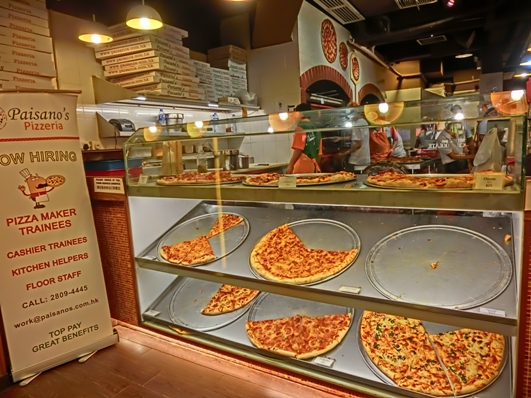
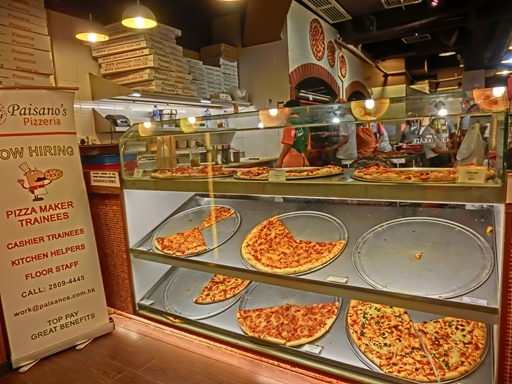
Additional performance modifications

diff --git a/views/js/main.js b/views/js/main.js
@@ -424,7 +424,7 @@ var resizePizzas = function(size) {
   // Returns the size difference to change a pizza element from one size to another. Called by changePizzaSlices(size).
   function determineDx (elem, size) {
     var oldwidth = elem.offsetWidth;
-    var windowwidth = document.querySelector("#randomPizzas").offsetWidth;
+    var windowwidth = document.getElementById("randomPizzas").offsetWidth;
     var oldsize = oldwidth / windowwidth;
 
     // TODO: change to 3 sizes? no more xl?
@@ -450,10 +450,13 @@ var resizePizzas = function(size) {
 
   // Iterates through pizza elements on the page and changes their widths
   function changePizzaSizes(size) {
-    for (var i = 0; i < document.querySelectorAll(".randomPizzaContainer").length; i++) {
-      var dx = determineDx(document.querySelectorAll(".randomPizzaContainer")[i], size);
-      var newwidth = (document.querySelectorAll(".randomPizzaContainer")[i].offsetWidth + dx) + 'px';
-      document.querySelectorAll(".randomPizzaContainer")[i].style.width = newwidth;
+   //var randompizza =  document.querySelectorAll(".randomPizzaContainer");
+   var randompizza = document.getElementsByClassName("randomPizzaContainer");
+   var dx = determineDx(randompizza[0], size);
+    var newwidth = (randompizza[0].offsetWidth + dx) + 'px';
+    
+    for (var i = 0; i < randompizza.length; i++) {
+      randompizza[i].style.width = newwidth;
     }
   }
 
@@ -502,9 +505,12 @@ function updatePositions() {
   frame++;
   window.performance.mark("mark_start_frame");
 
-  var items = document.querySelectorAll('.mover');
+  var items = document.getElementsByClassName("mover");
+  var modvalues = [1, 2, 3, 4, 5];
+  var modvalue = modvalues[Math.floor(Math.random() * modvalues.length)];
+  var phase = Math.sin((document.body.scrollTop / 1250) + modvalue);
+
   for (var i = 0; i < items.length; i++) {
-    var phase = Math.sin((document.body.scrollTop / 1250) + (i % 5));
     items[i].style.left = items[i].basicLeft + 100 * phase + 'px';
   }
 
@@ -525,10 +531,10 @@ window.addEventListener('scroll', updatePositions);
 document.addEventListener('DOMContentLoaded', function() {
   var cols = 8;
   var s = 256;
-  for (var i = 0; i < 200; i++) {
+  for (var i = 0; i < 22; i++) {
     var elem = document.createElement('img');
     elem.className = 'mover';
-    elem.src = "images/pizza-min.png";
+    elem.src = "images/pizza2-min.png";
     elem.style.height = "100px";
     elem.style.width = "73.333px";
     elem.basicLeft = (i % cols) * s;

diff --git a/views/pizza.html b/views/pizza.html
@@ -1,7 +1,9 @@
 <!DOCTYPE HTML>
 <html>
 <head>  
-  <style type="text/css">*{-webkit-box-sizing:border-box;-moz-box-sizing:border-box;-box-sizing:border-box}body{font-family:"Trebuchet MS",Helvetica,sans-serif;background:#000}input{background:grey;font-size:18px}form{display:inline-block}.centered{text-align:center}#pizzaSize{font-weight:800}.mover{position:fixed;width:256px;z-index:-1}.randomPizzaContainer{float:left;display:flex}.randomPizzaContainer:after{content:"";display:table;clear:both}.container{background-color:rgba(240,60,60,.8)}
+  <meta charset="utf-8">
+  <meta name="viewport" content="width=device-width, initial-scale=1">
+  <style type="text/css">*{-webkit-box-sizing:border-box;-moz-box-sizing:border-box;-box-sizing:border-box}body{font-family:"Trebuchet MS",Helvetica,sans-serif;background:#000}input{background:grey;font-size:18px}form{display:inline-block}.centered{text-align:center}#pizzaSize{font-weight:800}.mover{position:fixed;width:256px;z-index:-1;-webkit-backface-visibility:hidden}.randomPizzaContainer{float:left;display:flex}.randomPizzaContainer:after{content:"";display:table;clear:both}.container{background-color:rgba(240,60,60,.8)}
   </style>
   <link rel="stylesheet" href="css/bootstrap-grid-min.css">
 </head>
@@ -37,7 +39,7 @@
     </div>
     <div id="callToAction" class="row">
       <div class="col-md-4">
-        <img src="images/pizzeria-min.jpg" class="img-responsive"> <!-- Image credit to: http://commons.wikimedia.org/wiki/File:HK_TST_night_%E5%98%89%E8%98%AD%E9%81%93_Granville_Road_restaurant_Paisano's_Pizzeria_pizza_Dec-2013.JPG -->
+        <img src="images/pizzeria2-min.jpg" class="img-responsive"> <!-- Image credit to: http://commons.wikimedia.org/wiki/File:HK_TST_night_%E5%98%89%E8%98%AD%E9%81%93_Granville_Road_restaurant_Paisano's_Pizzeria_pizza_Dec-2013.JPG -->
       </div>
       <div class="col-md-8">
         <div class="row">

diff --git a/views/css/style-min.css b/views/css/style-min.css
@@ -1,1 +1,1 @@
-*{-webkit-box-sizing:border-box;-moz-box-sizing:border-box;-box-sizing:border-box}body{font-family:"Trebuchet MS",Helvetica,sans-serif;background:#000}input{background:grey;font-size:18px}form{display:inline-block}.centered{text-align:center}#pizzaSize{font-weight:800}.mover{position:fixed;width:256px;z-index:-1}.randomPizzaContainer{float:left;display:flex}.randomPizzaContainer:after{content:"";display:table;clear:both}.container{background-color:rgba(240,60,60,.8)}
+*{-webkit-box-sizing:border-box;-moz-box-sizing:border-box;-box-sizing:border-box}body{font-family:"Trebuchet MS",Helvetica,sans-serif;background:#000}input{background:grey;font-size:18px}form{display:inline-block}.centered{text-align:center}#pizzaSize{font-weight:800}.mover{position:fixed;width:256px;z-index:-1;-webkit-backface-visibility:hidden}.randomPizzaContainer{float:left;display:flex}.randomPizzaContainer:after{content:"";display:table;clear:both}.container{background-color:rgba(240,60,60,.8)}

diff --git a/views/css/style.css b/views/css/style.css
@@ -33,6 +33,7 @@ form {
   position: fixed;
   width: 256px;
   z-index: -1;
+  -webkit-backface-visibility: hidden;
 }
 
 .randomPizzaContainer {
